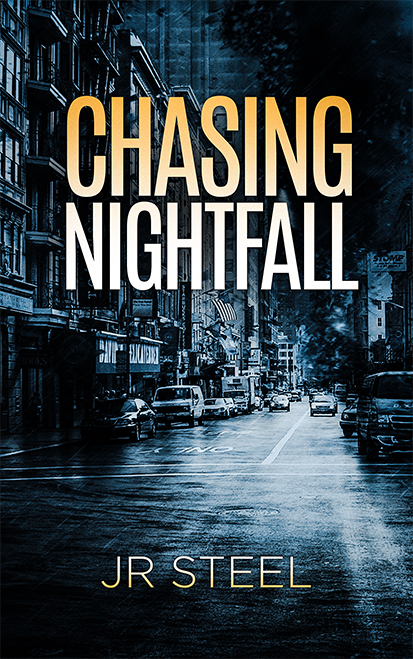
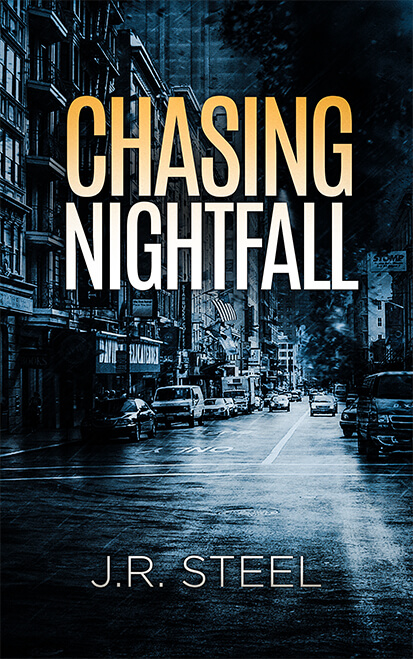
Updates

Changed region(s): [[0.4068, 0.8194, 0.7845, 0.9105], [0.2324, 0.8194, 0.3777, 0.9105]]

diff --git a/css/main.scss b/css/main.scss
@@ -84,6 +84,9 @@ body {
 		color: white;
 		background-color: $accentColor;
 	}
+	&:hover{
+		color: white;
+	}
 
 	&a:visited{
 		color:white;
@@ -104,8 +107,8 @@ body {
 .btn-primary, .wpcf7-form-control.wpcf7-submit {
     @include button-variant($accentColor,
 	 $accentColor, 
-	 darken($accentColor, 7.5%), 
-	 darken($accentColor, 7.5%), 
+	 darken($accentColor, 7.5%),
+	 darken($accentColor, 7.5%),
 	 darken($accentColor, 7.5%),
 	  white,
 	  $accentColor, 
@@ -132,7 +135,7 @@ body {
 //====== Forms ======
 input[type=text],input[type=email]{
 	//ackground-color: red !important;
-	height: 46px;
+	height: 53px;
 	border-radius: $button-corner-radius;
 	border-color: rgb(65, 65, 65);
 	font-family: 'Arial', sans-serif;
@@ -702,6 +705,7 @@ footer {
 		padding: 1rem .3rem;
 		color: white;
 		text-transform: uppercase;
+		font-family: 'Arial', sans-serif;
 	}
 
 	.first-column {
@@ -713,7 +717,6 @@ footer {
 		position: relative;
 		text-shadow: 0px 0px 10px #000000aa;
 	}
-
 
 	.footer-image {
 		position: absolute;

diff --git a/js/site.js b/js/site.js
@@ -1,12 +1,13 @@
 window.onload = function() {
 
 	// ====== Add click event handlers to bootstrap nav ======
-	const navLinks = document.querySelectorAll('.nav-item');
-	const menuToggle = document.getElementById('navbarResponsive');
-	const bsCollapse = window.bootstrap.Collapse.getOrCreateInstance(menuToggle, {toggle: false});
-	navLinks.forEach((l) => {
-		l.addEventListener('click', () => { bsCollapse.toggle() });
-	});
+	// const navLinks = document.querySelectorAll('.nav-item');
+	// const menuToggle = document.getElementById('navbarResponsive');
+	// const bsCollapse = window.bootstrap.Collapse.getOrCreateInstance(menuToggle, {toggle: false});
+	// navLinks.forEach((l) => {
+	// 	l.addEventListener('click', () => { bsCollapse.toggle() });
+	// });
+
 
 	const reviewsCarouselElement = document.getElementById('reviewsCarousel');
 	// Autoplay carousel

diff --git a/css/main.css b/css/main.css
@@ -9602,6 +9602,9 @@ body {
   color: white;
   background-color: #e1b31e;
 }
+.btn:hover, .wpcf7-form-control.wpcf7-submit:hover {
+  color: white;
+}
 .btna:visited, .wpcf7-form-control.wpcf7-submita:visited {
   color: white;
 }
@@ -9673,7 +9676,7 @@ body {
 }
 
 input[type=text], input[type=email] {
-  height: 46px;
+  height: 53px;
   border-radius: 0px;
   border-color: rgb(65, 65, 65);
   font-family: "Arial", sans-serif;
@@ -10177,6 +10180,7 @@ footer .footer-text-item {
   padding: 1rem 0.3rem;
   color: white;
   text-transform: uppercase;
+  font-family: "Arial", sans-serif;
 }
 footer .first-column {
   padding-left: 200px;

diff --git a/header.php b/header.php
@@ -15,9 +15,46 @@
 <head>
 	<meta charset="<?php bloginfo( 'charset' ); ?>">
 	<meta name="viewport" content="width=device-width, initial-scale=1">
+
+	<!-- Standard meta tags -->
+	<meta charset="UTF-8">
+	<meta http-equiv="X-UA-Compatible" content="IE=edge">
+	<meta name="viewport" content="width=device-width, initial-scale=1.0">
+	<meta name="description" content="{{ description }}">
+	<meta name="keywords" content="">
+	<link rel="canonical" href="">
+
+	<!--Social Media Display-->
+	<meta property="og:title" content="Chasing Nightfall" />
+	<meta property="og:description" content="Chasing Nightfall" />
+	<meta property="og:type" content="website" />
+	<meta property="og:url" content="" />
+	<meta property="og:image" content="/images/Author-Logo.png" />
+	<meta property="og:image:secure_url" content="/images/Author-Logo.png" />
+
+	<!--Favicons-->
+	<link rel="apple-touch-icon" sizes="180x180" href="">
+	<link rel="icon" type="image/png" sizes="32x32" href="">
+	<link rel="icon" type="image/png" sizes="16x16" href="">
+	<link rel="manifest" href="">
+
 	<link rel="profile" href="https://gmpg.org/xfn/11">
 
 	<style>html{visibility: hidden;opacity:0;}</style>
+
+	<link href="https://fonts.googleapis.com/css2?family=League+Gothic&display=swap"
+          rel="preload" as="style" crossorigin="anonymous">
+    <link href="https://fonts.googleapis.com/css2?family=League+Gothic&display=swap"
+          rel="stylesheet" crossorigin="anonymous">
+	<link
+          rel="preload"
+         href="https://fonts.gstatic.com/s/leaguegothic/v11/qFdR35CBi4tvBz81xy7WG7ep-BQAY7Krj7feObpH_9ahg9U.woff2"
+         crossorigin
+         as="font"
+         type="font/woff2"
+    />
+
+	
 
 	<?php wp_head(); ?>
 </head>
@@ -29,7 +66,7 @@
 	<header>
 		<nav class="navbar navbar-expand-lg navbar-dark fixed-top" id="mainNav" >
 			<div class="container">
-				<a class="navbar-brand" aria-label="Scroll to Page Top" href="/"><img alt="JR Steel Author Logo" src="<?php echo get_template_directory_uri(); ?>/images/Author-Logo.png"></a>
+				<a class="navbar-brand" aria-label="Scroll to Page Top" href="/"><img alt="J.R. Steel Author Logo" src="<?php echo get_template_directory_uri(); ?>/images/Author-Logo.png"></a>
 				
 				<button  class="navbar-toggler collapsed" type="button" data-bs-toggle="collapse" data-bs-target="#navbarResponsive" aria-controls="navbarResponsive" aria-expanded="false" aria-label="Toggle navigation">
 					<span class="navbar-toggler-icon"></span> 

diff --git a/footer.php b/footer.php
@@ -24,7 +24,7 @@
 	<div class="container text-container pt-2">
 		<div class="row white border-bottom">
 			<div class="col-md-6">
-				<a href="/"><img alt="JR Steel Author Logo" src="<?php echo get_template_directory_uri(); ?>/images/Author-Logo.png"></a>
+				<a href="/"><img alt="J.R. Steel Author Logo" class="pb-5 ps-2" src="<?php echo get_template_directory_uri(); ?>/images/Author-Logo.png"></a>
 			</div>
 			<div class="col-md-3">
 				<h3 class="ps-3">LINKS</h3>
@@ -37,8 +37,8 @@
 				</ul>
 			</div>
 			<div class="col-md-3">
-				<h3>FOLLOW JR STEEL</h3>
-				<div class=" pb-5">
+				<h3 class="ps-2">FOLLOW J.R. STEEL</h3>
+				<div class="ps-2 pb-5">
 					<a href="" rel="noreferrer noopener">
 					
 					<button aria-label="Facebook" type="button" class="btn btn-primary p-2 btn-circle btn-circle-sm">
@@ -73,9 +73,9 @@
 		</div>
 
 			<p class="white pt-3">
-				<span class="footer-text-item">© 2024 JR Steel</span>
+				<span class="footer-text-item">© 2024 J.R. Steel</span>
 				<span class="footer-text-item">-</span>
-				<span class="footer-text-item">Website By Design Co.</span>
+				<span class="footer-text-item">Website By <strong><a class="footer-text-item" target="blank" href="http://brightevolutionwebdesign.com/">Bright Evolution Web Design</a></strong></span>
 			</p>
 			</div>
 		</div>

diff --git a/front-page.php b/front-page.php
@@ -109,9 +109,9 @@ get_header();
 					<h2 class="pe-5">ABOUT</h2>
 				</div>
 				<div class="col-md-8 pt-1 pe-5">
-					<p class="author-description">JR Steel is a master of suspense, captivating readers with narratives that keep them on the edge of their seats. With an eye for detail and a talent for crafting intricate plots, Steel has become renowned for his thrilling storytelling.</p>
+					<p>J.R. Steel is a master of the hard-hitting thriller, captivating readers with narratives that keep them on the edge of their seats. With an eye for detail and a talent for crafting intricate plots, Steel has become renowned for his thrilling storytelling.</p>
 					<p>Steel burst onto the literary scene with his debut novel, <i>Chasing Nightfall,</i> a heart-pounding tale of intrigue, betrayal, and relentless pursuit. This electrifying thriller quickly garnered critical acclaim and established Steel as a star in the genre.</p>
-					<a href="/about" class="btn btn-primary mt-3">READ MORE</a>
+					<a href="/about" alt="Read More" class="btn btn-primary mt-3">READ MORE</a>
 				</div>
 			</div>
 		</div>

diff --git a/template-parts/content-contact.php b/template-parts/content-contact.php
@@ -22,7 +22,7 @@
 	</div>
 
 	<!-- Contact with CF7 -->
-	<section id="contact" class="bg-transparent dark">
+	<section id="contact" class="bg-transparent dark pt-3">
 		<div class="container align-items-center">
 			<div class="row align-items-center">
 				<div class="image-col col-lg-5 col-md-12">
@@ -32,7 +32,7 @@
 				
 				<div class="col-lg-7 col-md-12 pt-5 pb-5 px-5 ">
 					<h2 class="subtitle pt-5">Contact</h2>
-					<p class="pt-1 pb-4">Please fill out the form below to contact JR Steel.</p>
+					<p class="pt-1 pb-4">Please fill out the form below to contact J.R. Steel.</p>
 						<?php echo do_shortcode('[contact-form-7 id="8a73305" title="Contact form 1"]'); ?>
 				</div>
 				

diff --git a/functions.php b/functions.php
@@ -160,11 +160,8 @@ add_action('admin_menu', 'remove_posts_menu');
  */
 function enqueue_custom_fonts() {
 	if (!is_admin()){
-		wp_register_style('LeagueGothic', 'https://fonts.googleapis.com/css2?family=League+Gothic&display=swap');
-		wp_enqueue_style('LeagueGothic');
-
-		// wp_register_style('Aleo', 'https://fonts.googleapis.com/css2?family=Aleo:ital,wght@0,100..900;1,100..900&display=swap');
-		// wp_enqueue_style('Aleo');
+		// wp_register_style('LeagueGothic', 'https://fonts.googleapis.com/css2?family=League+Gothic&display=swap');
+		// wp_enqueue_style('LeagueGothic');
 	}
 }
 add_action('wp_enqueue_scripts', 'enqueue_custom_fonts');

diff --git a/template-parts/newsletter-signup.php b/template-parts/newsletter-signup.php
@@ -9,7 +9,7 @@
 	style="background-image: url(<?php echo get_template_directory_uri(); ?>/images/Subscribe-Background-Tunnel.jpg")>
 	<div class="row pt-3 pb-3">
 					<div class="col-12 text-center pt-2 pb-2">
-						<h2 class="pt-1 pb-2 subtitle">Sign up for JR Steel's email list to be notified of new releases and free giveaways.</h2>
+						<h2 class="pt-1 pb-2 subtitle">Sign up for J.R. Steel's email list to be notified of new releases and free giveaways.</h2>
 						<?php echo(do_shortcode('[mc4wp_form id=7]')) ?>
 					</div>
 				</div>
